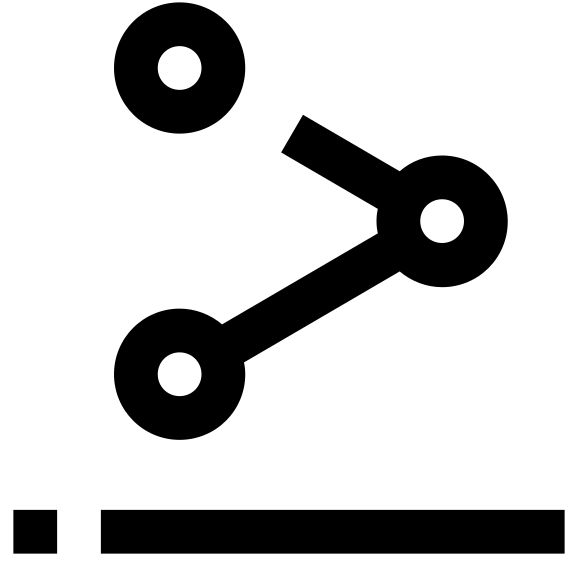
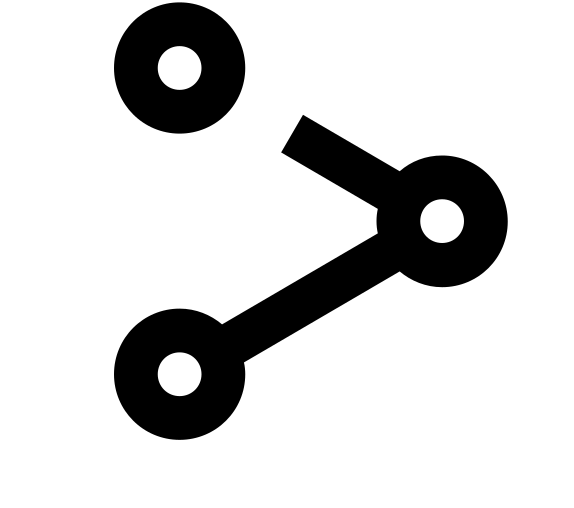
Add files via upload
adjust icon's height, make tableau data set page.

diff --git a/Datacenter.html b/Datacenter.html
@@ -11,15 +11,44 @@
   </head>
   <body>
     <div class="nav_bar">
-        <p class="main_logo">Unusal B-class Football</p>
+        <p class="main_logo"><a href="index.html">Unusal B-class Football</a></p>
         <ul class="side_bar">
-          <li>About</li>
-          <li>Blog</li>
+          <li><a href="#">About</a></li>
+          <li><a href="#">Blog</a></li>
           <li><a href="https://public.tableau.com/app/profile/.26001199" target="_blank">
             Tableau
           </a></li>
         </ul>
     </div>
+    <div class="title_holder">
+      <p>2021 K League Striker Data Set</p>
+    </div>
+
+    <!-- Data Set Space -->
+    <div class='tableauPlaceholder' id='viz1645337017904' style='position: relative'>
+      <object class='tableauViz'  style='display:none;'>
+        <param name='host_url' value='https%3A%2F%2Fpublic.tableau.com%2F' />
+        <param name='embed_code_version' value='3' /> <param name='site_root' value='' />
+        <param name='name' value='K_16444817890490&#47;1' /><param name='tabs' value='no' />
+        <param name='toolbar' value='yes' /><param name='animate_transition' value='yes' />
+        <param name='display_static_image' value='yes' />
+        <param name='display_spinner' value='yes' />
+        <param name='display_overlay' value='yes' /><param name='display_count' value='yes' />
+        <param name='language' value='en-US' /></object>
+      </div>
+      <script type='text/javascript'>
+        var divElement = document.getElementById('viz1645337017904');
+        var vizElement = divElement.getElementsByTagName('object')[0];
+        if ( divElement.offsetWidth > 800 ) { vizElement.style.width='1000px';vizElement.style.height='827px';}
+        else if ( divElement.offsetWidth > 500 ) { vizElement.style.width='1000px';vizElement.style.height='827px';}
+        else { vizElement.style.width='100%';vizElement.style.height='1577px';}
+        var scriptElement = document.createElement('script');
+        scriptElement.src = 'https://public.tableau.com/javascripts/api/viz_v1.js';
+        vizElement.parentNode.insertBefore(scriptElement, vizElement);
+      </script>
+
+
+
 
   </body>
 </html>

diff --git a/main.css b/main.css
@@ -86,7 +86,6 @@ body {
 
 .show_more:hover{
   background-color: #232323;
-  transition: 3s;
 }
 
 .show_more p:hover {
@@ -102,7 +101,6 @@ body {
   height: 500px;
   margin-left: auto;
   margin-right: auto;
-  /* background-color: orange; */
 }
 
 .box {
@@ -118,6 +116,7 @@ body {
   width: 300px;
   margin-left: 5px;
   margin-right: 5px;
+  /* 마우스 호버링 */
   transition: color .3s ease-in-out, box-shadow .3s ease-in-out;
 }
 
@@ -127,8 +126,8 @@ body {
   height: 220px;
   margin-left: 5px;
   margin-right: 5px;
-  /* background-color: #353535; */
   color: white;
+  /* 마우스 호버링 */
   box-shadow: inset 300px 0 0 0 #353535;
 }
 
@@ -139,6 +138,10 @@ body {
   margin-left: 5px;
   margin-right: 5px;
   transition: color .3s ease-in-out, box-shadow .3s ease-in-out;
+}
+
+.social img {
+  padding-top: 5px;
 }
 
 .social:hover{

diff --git a/data.css b/data.css
@@ -6,7 +6,10 @@
 body {
   margin: 0;
   padding: 0;
+  background-color: #424242;
 }
+
+/* Navigation Bar */
 
 .nav_bar {
   background-color: #232323;
@@ -49,4 +52,17 @@ body {
 a {
   text-decoration: none;
   color: inherit;
+}
+
+.title_holder {
+  font-size: 48px;
+  text-align: center;
+  color: white;
+
+}
+
+.tableauPlaceholder {
+  margin-left: auto;
+  margin-right: auto;
+  margin-bottom: 70px;
 }
